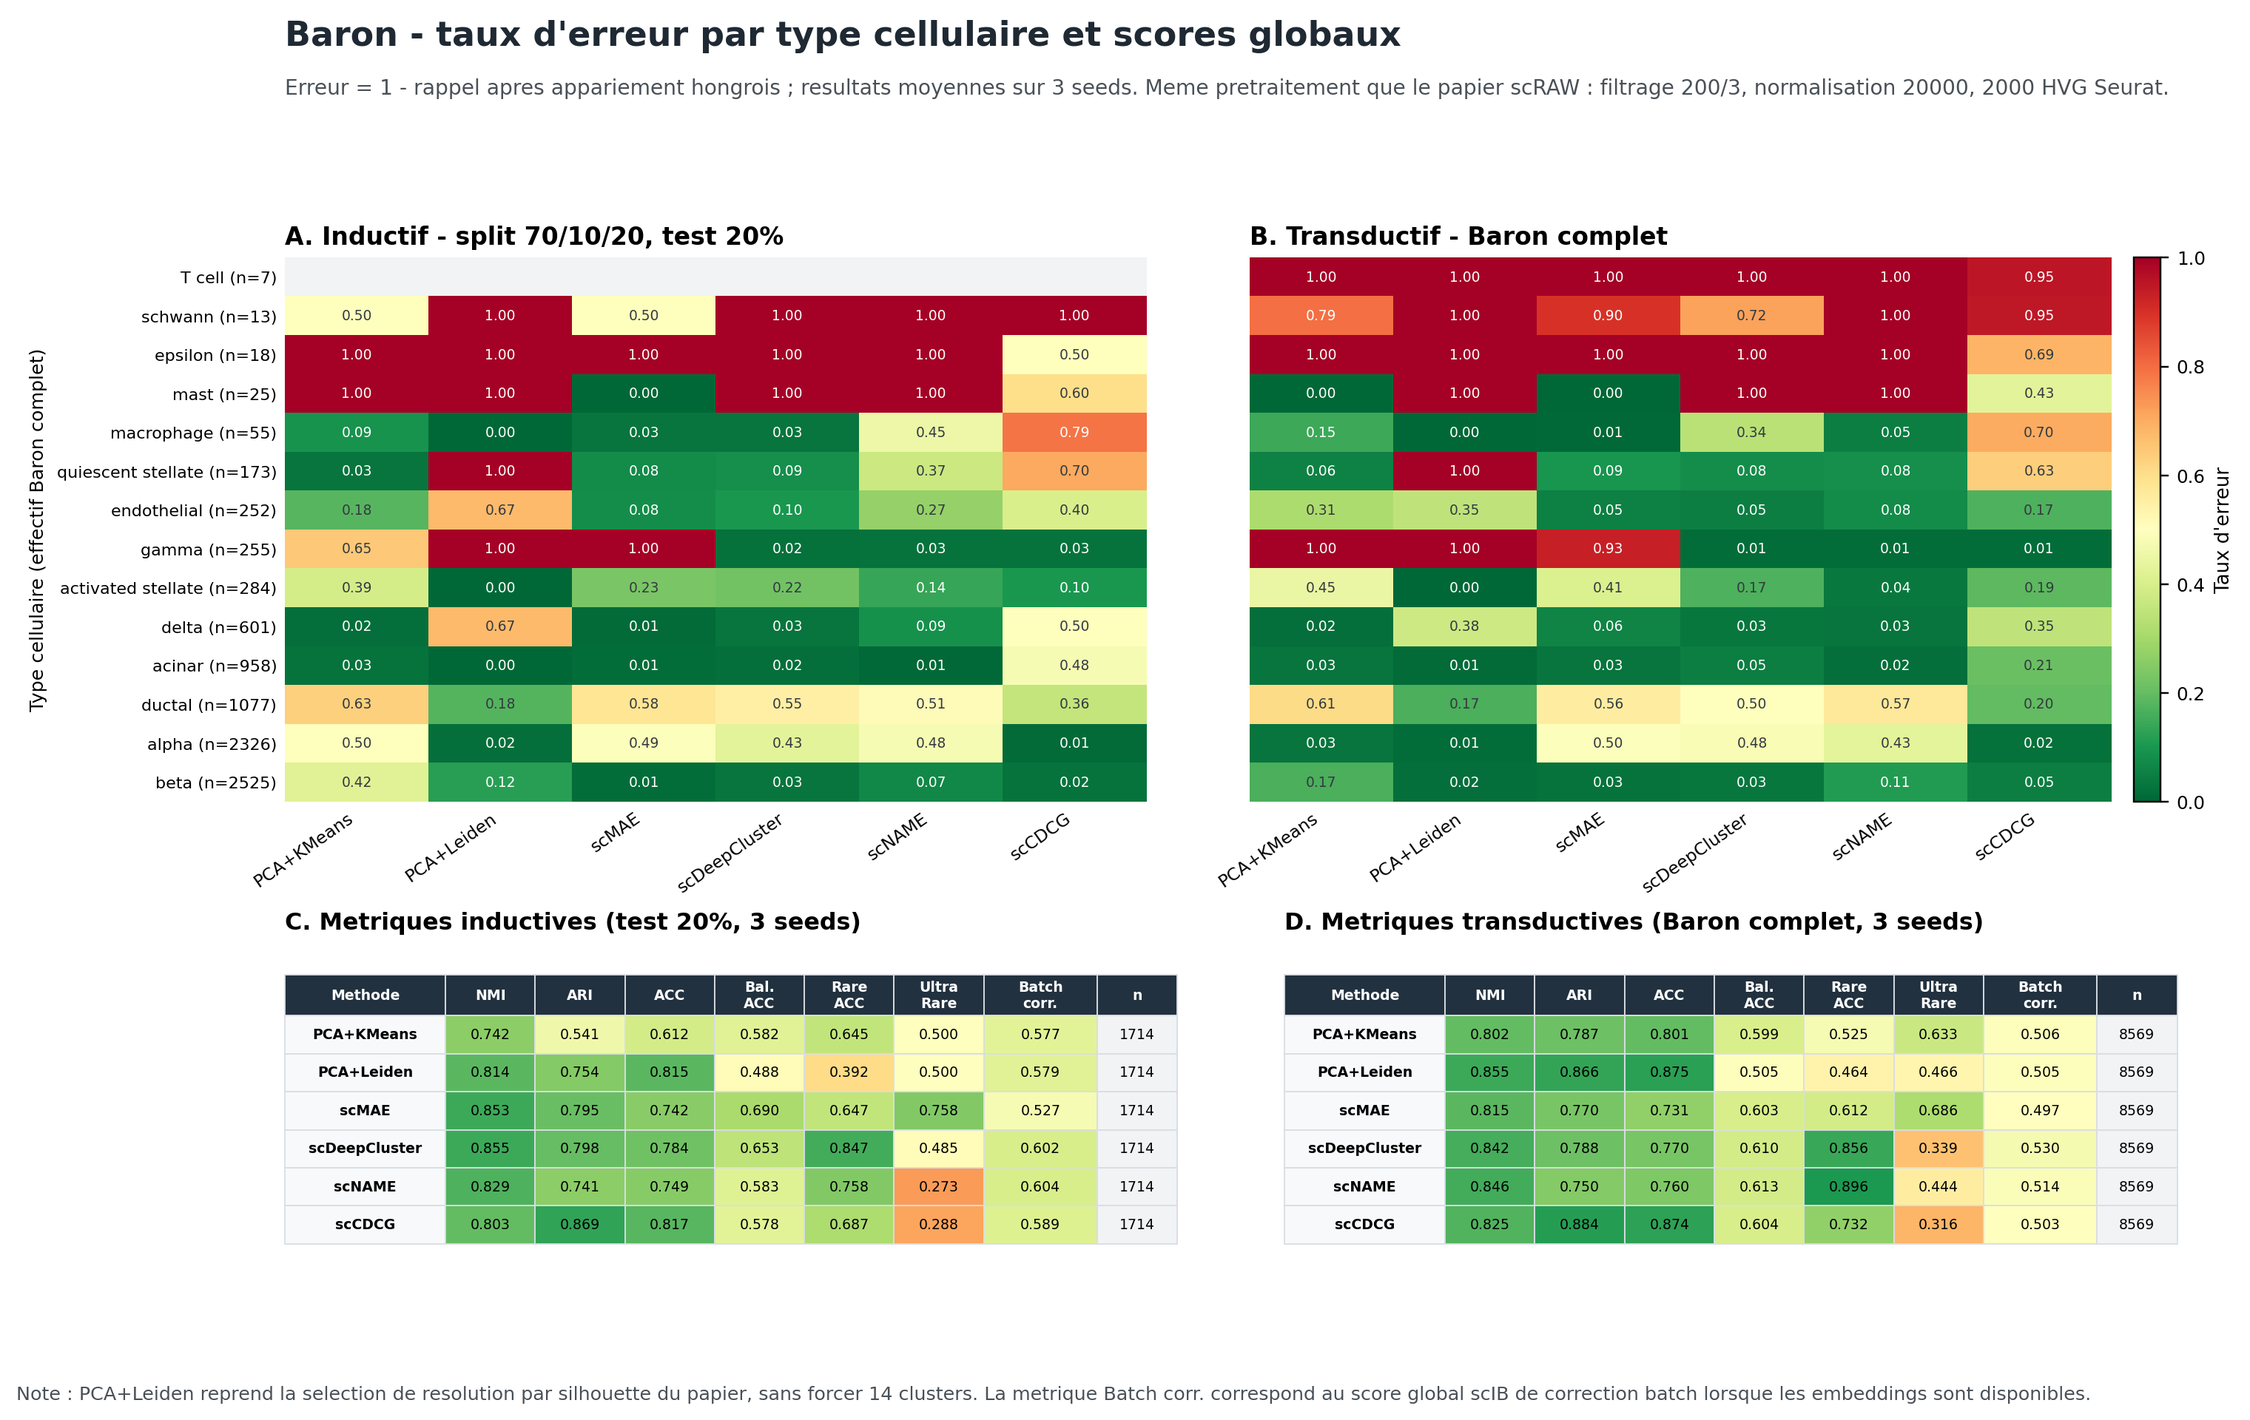
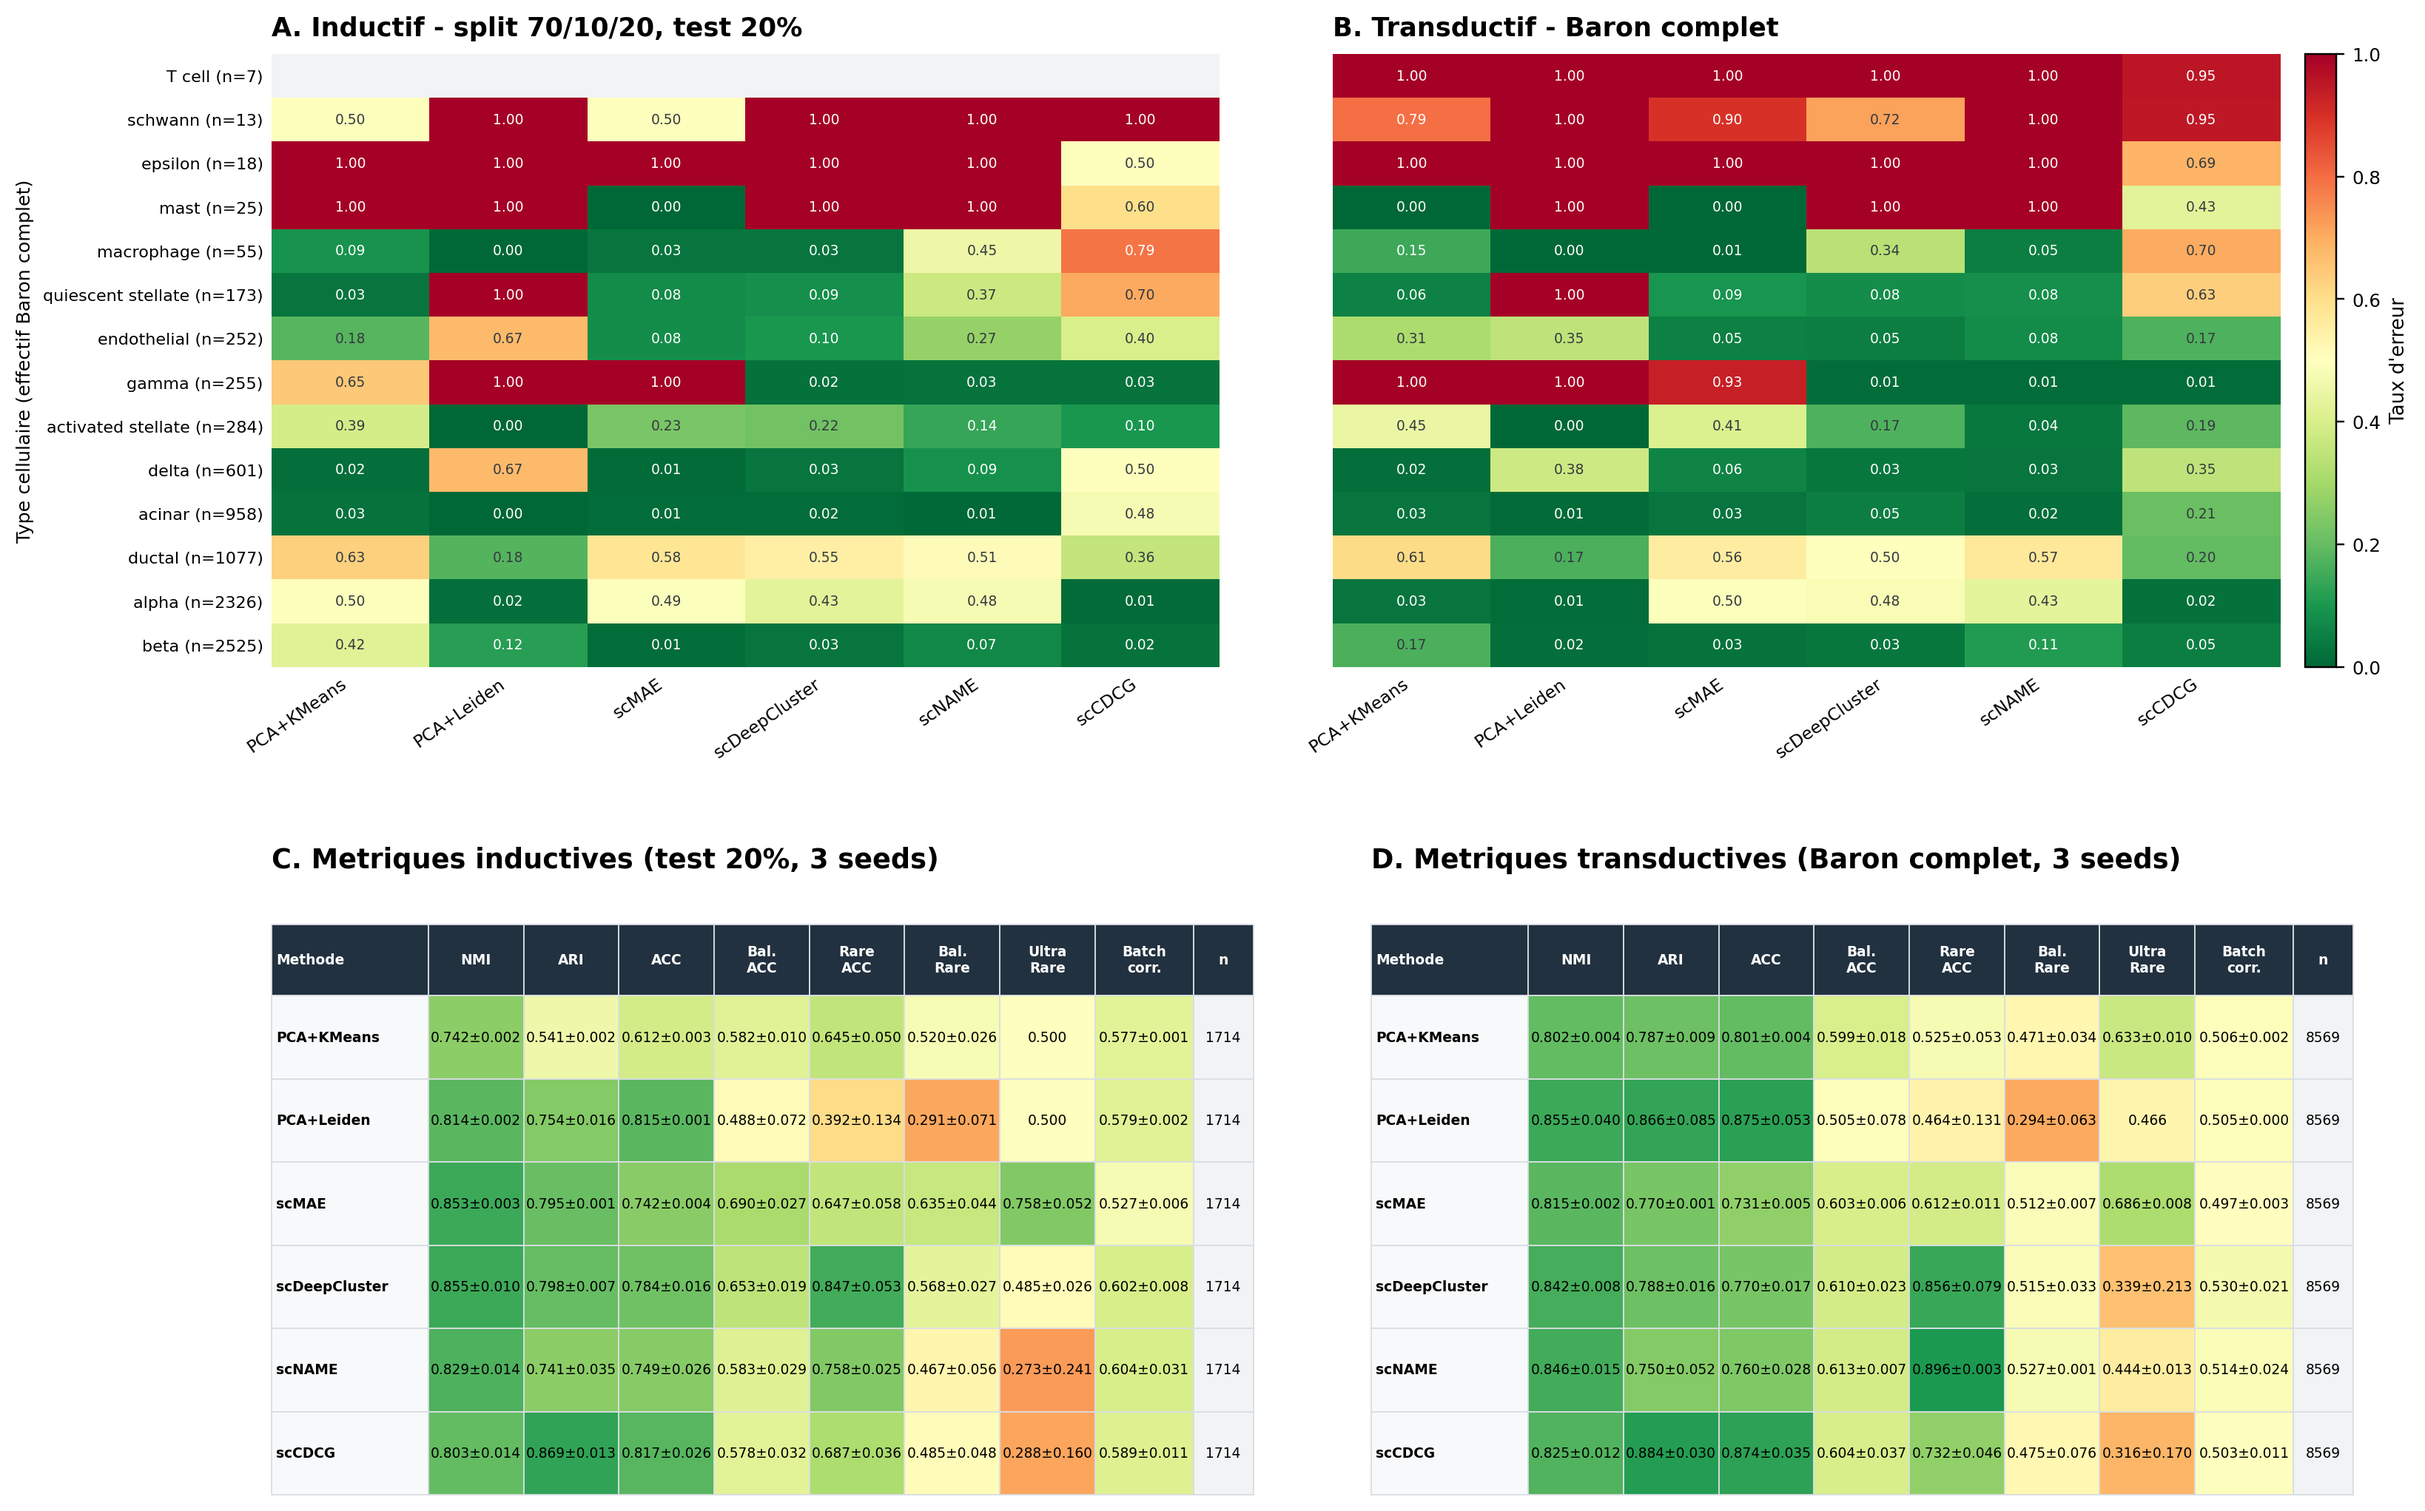
comparaison existant: add balanced rare accuracy to figure 2

diff --git a/Images/non_utilise/SCRBenchmark/generate_existant_analysis_figures.py b/Images/non_utilise/SCRBenchmark/generate_existant_analysis_figures.py
@@ -111,6 +111,7 @@ METRIC_COLUMNS = [
     "BalancedACC",
     "F1Macro",
     "RareACC",
+    "BalancedRareACC",
     "UltraRareACC",
     "BatchCorrection",
     "n_eval",
@@ -194,11 +195,16 @@ def evaluate_label_file(
 
     recalls = class_recalls(y_true, y_aligned)
     counts = y_true.value_counts()
+    
+    rare_recalls = [recalls[c] for c in recalls if c in rare]
+    balanced_rare_acc = float(np.mean(rare_recalls)) if rare_recalls else float("nan")
+
     metrics = {
         "NMI": normalized_mutual_info_score(y_true, y_raw),
         "ARI": adjusted_rand_score(y_true, y_raw),
         "ACC": accuracy_score(y_true, y_aligned),
         "BalancedACC": float(np.mean(list(recalls.values()))),
+        "BalancedRareACC": balanced_rare_acc,
         "F1Macro": f1_score(
             y_true,
             y_aligned,
@@ -399,11 +405,12 @@ def draw_metric_table(ax: plt.Axes, metrics: pd.DataFrame, mode_name: str, title
         "ACC",
         "BalancedACC",
         "RareACC",
+        "BalancedRareACC",
         "UltraRareACC",
         "BatchCorrection",
         "n_eval",
     ]
-    headers = ["Methode", "NMI", "ARI", "ACC", "Bal.\nACC", "Rare\nACC", "Ultra\nRare", "Batch\ncorr.", "n"]
+    headers = ["Methode", "NMI", "ARI", "ACC", "Bal.\nACC", "Rare\nACC", "Bal.\nRare", "Ultra\nRare", "Batch\ncorr.", "n"]
     display = data[table_cols].copy()
     for col in table_cols[1:-1]:
         display[col] = display[col].map(format_metric)
@@ -416,7 +423,7 @@ def draw_metric_table(ax: plt.Axes, metrics: pd.DataFrame, mode_name: str, title
         loc="center",
         cellLoc="center",
         colLoc="center",
-        colWidths=[0.17, 0.095, 0.095, 0.095, 0.095, 0.095, 0.095, 0.12, 0.085],
+        colWidths=[0.17, 0.085, 0.085, 0.085, 0.085, 0.085, 0.085, 0.085, 0.11, 0.075],
         bbox=[0.0, 0.0, 1.0, 0.88],
     )
     table.auto_set_font_size(False)

diff --git a/Images/non_utilise/SCRBenchmark/generate_existant_analysis_figures_updated.py b/Images/non_utilise/SCRBenchmark/generate_existant_analysis_figures_updated.py
@@ -61,6 +61,7 @@ METRIC_COLUMNS = [
     "BalancedACC",
     "F1Macro",
     "RareACC",
+    "BalancedRareACC",
     "UltraRareACC",
     "BatchCorrection",
     "n_eval",
@@ -109,11 +110,12 @@ def draw_metric_table(ax: plt.Axes, metrics_mean: pd.DataFrame, metrics_std: pd.
         "ACC",
         "BalancedACC",
         "RareACC",
+        "BalancedRareACC",
         "UltraRareACC",
         "BatchCorrection",
         "n_eval",
     ]
-    headers = ["Methode", "NMI", "ARI", "ACC", "Bal.\nACC", "Rare\nACC", "Ultra\nRare", "Batch\ncorr.", "n"]
+    headers = ["Methode", "NMI", "ARI", "ACC", "Bal.\nACC", "Rare\nACC", "Bal.\nRare", "Ultra\nRare", "Batch\ncorr.", "n"]
     
     # Build display values
     display_rows = []
@@ -149,8 +151,7 @@ def draw_metric_table(ax: plt.Axes, metrics_mean: pd.DataFrame, metrics_std: pd.
     
     ax.set_title(title, loc="left", fontsize=12.0, fontweight="bold", pad=6)
     
-    # Adjusted widths to give enough space for the method names and std dev strings
-    col_widths = [0.18, 0.108, 0.108, 0.108, 0.108, 0.108, 0.108, 0.108, 0.064]
+    col_widths = [0.16, 0.097, 0.097, 0.097, 0.097, 0.097, 0.097, 0.097, 0.10, 0.061]
     
     table = ax.table(
         cellText=display_values,
@@ -162,7 +163,7 @@ def draw_metric_table(ax: plt.Axes, metrics_mean: pd.DataFrame, metrics_std: pd.
         bbox=[0.0, 0.0, 1.0, 0.93],
     )
     table.auto_set_font_size(False)
-    table.set_fontsize(6.8) # Adjusted font size to fit text perfectly within cell boundaries
+    table.set_fontsize(6.1) # Adjusted font size to fit text perfectly within cell boundaries
     
     for (row, col), cell in table.get_celld().items():
         cell.set_edgecolor("#d9dee3")
